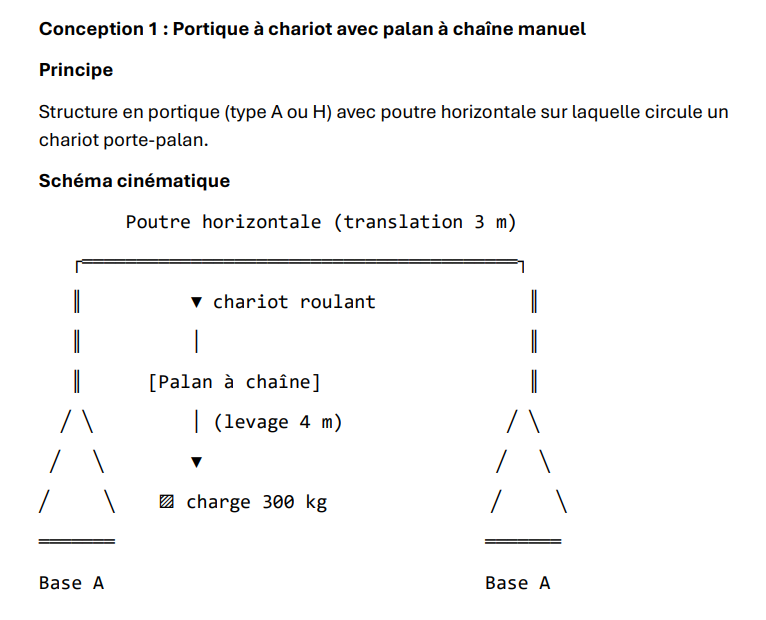
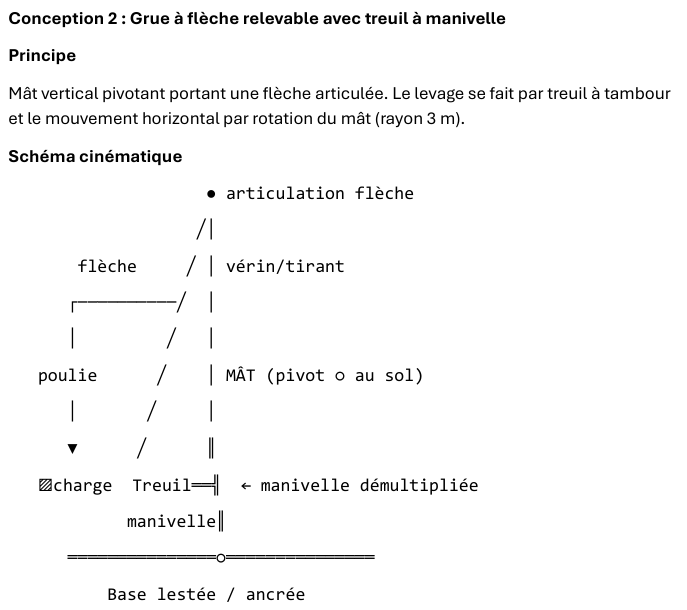
Fusion avec le dépôt GitHub 1

diff --git a/index.html b/index.html
@@ -22,6 +22,7 @@
     <a href="#maquette3d">3D</a>
     <a href="#calcul">Calcul</a>
     <a href="#suite">Suite</a>
+    <a href="#historique">Historique</a>
   </nav>
 </header>
 
@@ -34,10 +35,10 @@
     <div class="stats">
       <div><b>300 kg</b><span>charge</span></div>
       <div><b>4 m → 40 cm</b><span>levage</span></div>
-      <div><b>3 m → 30 cm</b><span>translation</span></div>
+      <div><b>3 m → 30 cm</b><span>rayon de rotation</span></div>
     </div>
   </div>
-  <img src="images/schema.png" alt="Schéma cinématique du portique à chariot avec palan à chaîne">
+  <img src="images/schema-cinematique-grue.png" alt="Schéma cinématique de la grue à flèche relevable avec treuil à manivelle">
 </section>
 
 <section id="projet">
@@ -131,21 +132,26 @@
 <section id="conceptions">
   <h2>Les trois conceptions</h2>
   <div class="tabs" role="tablist">
-    <button role="tab" aria-selected="true" data-tab="c1">1. Portique à chariot</button>
-    <button role="tab" aria-selected="false" data-tab="c2">2. Grue pivotante</button>
+    <button role="tab" aria-selected="false" data-tab="c1">1. Portique à chariot</button>
+    <button role="tab" aria-selected="true" data-tab="c2">2. Grue à flèche relevable ✓ retenue</button>
     <button role="tab" aria-selected="false" data-tab="c3">3. Chèvre à parallélogramme</button>
   </div>
-  <div class="panel" id="c1">
+  <div class="panel" id="c1" hidden>
     <p><strong>Principe :</strong> structure en portique (type A ou H) avec une poutre horizontale sur laquelle circule un chariot porte-palan. Les deux mouvements, vertical et horizontal, sont clairement séparés.</p>
-    <p><strong>Avec notre matériel :</strong> le carton fait les montants et la poutre, les plaques renforcent les zones sous charge, les pics et le fil de fer servent d'axes. Sans palan à chaîne, on réalise un treuil manuel démultiplié : manivelle, engrenages, tambour, ficelle, poulies.</p>
+    <p><strong>Avec notre matériel :</strong> le carton fait les montants et la poutre, les plaques renforcent les zones sous charge, les pics et le fil de fer servent d'axes. Sans palan à chaîne, on réalise un treuil manuel démultiplié.</p>
+    <div class="grid two">
+      <figure class="mini"><img src="images/schema.png" alt="Schéma cinématique du portique à chariot"><figcaption>Schéma de la conception 2.</figcaption></figure>
+      <figure class="mini"><img src="images/dimensionnement.png" alt="Dimensionnement du portique"><figcaption>Dimensionnement de la conception 2.</figcaption></figure>
+    </div>
   </div>
-  <div class="panel" id="c2" hidden>
-    <p><strong>Principe :</strong> un mât vertical pivotant porte une flèche relevable. Le levage se fait au treuil, la translation par rotation du mât.</p>
-    <p><strong>Limite :</strong> une charge éloignée du mât crée un fort moment de renversement. Il faut un lestage ou un ancrage, ce qui nuit à la démontabilité. Le pivot rigide et la base stable en carton sont aussi plus délicats.</p>
+  <div class="panel" id="c2">
+    <p><strong>Principe :</strong> un mât vertical pivotant porte une flèche articulée. Le levage se fait par un treuil à tambour avec manivelle démultipliée, et le mouvement horizontal par rotation du mât (rayon de 3 m).</p>
+    <p><strong>Limite :</strong> une charge éloignée du mât crée un fort moment de renversement. Il faut un lestage ou un ancrage de la base, ce qui est à concilier avec la démontabilité. Le pivot rigide et la base stable en carton sont aussi plus délicats à réaliser.</p>
+    <figure class="mini"><img src="images/schema-cinematique-grue.png" alt="Schéma cinématique de la grue à flèche relevable"><figcaption>Schéma cinématique de la conception 2.</figcaption></figure>
   </div>
   <div class="panel" id="c3" hidden>
     <p><strong>Principe :</strong> un trépied, un bras déformable en parallélogramme et un système de mouflage. La solution est compacte, légère et stable.</p>
-    <p><strong>Limite :</strong> il faut plusieurs liaisons pivot bien alignées. En carton, avec des axes en pics ou en fil de fer, les jeux, frottements et déformations gênent le fonctionnement, et le déplacement horizontal précis est difficile à régler.</p>
+    <p><strong>Limite :</strong> il faut plusieurs liaisons pivot bien alignées. En carton, avec des axes en pics ou en fil de fer, les jeux, frottements et déformations gênent le fonctionnement, et le réglage est difficile.</p>
   </div>
 </section>
 
@@ -153,7 +159,7 @@
   <h2>Comparatif</h2>
   <div class="table-wrap">
     <table class="cmp">
-      <thead><tr><th>Critère</th><th class="win">Portique + chariot</th><th>Grue pivotante</th><th>Trépied / parallélogramme</th></tr></thead>
+      <thead><tr><th>Critère</th><th>Portique + chariot</th><th class="win">Grue pivotante</th><th>Trépied / parallélogramme</th></tr></thead>
       <tbody>
         <tr><td>Compatibilité avec le carton</td><td>Très bonne</td><td>Moyenne</td><td>Moyenne</td></tr>
         <tr><td>Utilisation des poulies</td><td>Très bonne</td><td>Très bonne</td><td>Très bonne</td></tr>
@@ -168,39 +174,44 @@
       </tbody>
     </table>
   </div>
+  <p class="note">Ce tableau reprend l'analyse du document d'étude initial. Le groupe a retenu la grue à flèche relevable ; ses points faibles (stabilité, lestage) sont traités dans la section suivante.</p>
 </section>
 
 <section id="choix">
-  <h2>Solution retenue : le portique à chariot</h2>
+  <h2>Solution retenue : la grue à flèche relevable</h2>
+  <!-- À compléter par le groupe : justification détaillée du changement de choix (portique -> grue). -->
   <div class="grid two">
     <div>
-      <p>Nous avons comparé les trois solutions selon les contraintes du cahier des charges : lever 300 kg jusqu'à 4 m, les déplacer sur 3 m, utiliser uniquement l'énergie humaine, permettre l'usage par une seule personne, et obtenir un système simple, stable, démontable et transportable.</p>
-      <p>Nous avons retenu le <strong>portique à chariot mobile avec treuil manuel et système de poulies</strong>, simple à fabriquer avec le carton, les poulies, les engrenages, la ficelle et les pics à brochette.</p>
+      <p>Nous avons retenu la <strong>grue à flèche relevable avec treuil à manivelle</strong> : un mât vertical pivotant porte une flèche articulée.</p>
       <ul>
-        <li>Le <strong>chariot</strong> assure la translation de 3 m, soit 30 cm sur la maquette.</li>
-        <li>Le <strong>treuil démultiplié</strong> avec le palan assure le levage de 4 m, soit 40 cm sur la maquette.</li>
-        <li>Stable sans contrepoids important.</li>
-        <li>Engrenages et poulies réduisent l'effort de l'opérateur.</li>
+        <li>Le <strong>levage</strong> (4 m, soit 40 cm sur la maquette) est assuré par un treuil à tambour avec manivelle démultipliée.</li>
+        <li>Le <strong>mouvement horizontal</strong> se fait par rotation du mât, avec un rayon de 3 m (30 cm sur la maquette).</li>
+        <li>La flèche est maintenue par un vérin ou un tirant, et la base est lestée ou ancrée.</li>
+        <li>Solution intéressante du point de vue cinématique, qui exploite les engrenages, poulies, ficelle et axes fournis.</li>
       </ul>
-      <p>C'est le meilleur compromis entre simplicité, stabilité, efficacité, ergonomie et facilité de réalisation.</p>
     </div>
-    <figure>
-      <img src="images/dimensionnement.png" alt="Dimensionnement clé : palan, chariot et structure">
-      <figcaption>Dimensionnement de la conception initiale (palan à chaîne manuel).</figcaption>
-    </figure>
+    <div class="panel">
+      <h3 style="margin-top:0">Points de vigilance</h3>
+      <ul>
+        <li><strong>Moment de renversement :</strong> 300 kg à 3 m du mât donnent environ 300 × 9,81 × 3 ≈ 8 800 N·m (charge seule, hors poids propre).</li>
+        <li><strong>Base :</strong> lestage ou ancrage à concilier avec la démontabilité et la transportabilité.</li>
+        <li><strong>Maquette :</strong> pivot rigide et base stable en carton, plus délicats à réaliser qu'un portique.</li>
+      </ul>
+    </div>
   </div>
   <h3>Chaîne cinématique de la maquette</h3>
   <ol class="chain">
-    <li>Manivelle</li><li>Train d'engrenages</li><li>Tambour</li><li>Ficelle</li><li>Poulie(s)</li><li>Charge</li>
+    <li>Manivelle</li><li>Train d'engrenages</li><li>Tambour</li><li>Ficelle</li><li>Poulie en bout de flèche</li><li>Charge</li>
   </ol>
+  <p class="note">Le déplacement horizontal est obtenu séparément, par la rotation du mât.</p>
 </section>
 
 <section id="maquette3d">
   <h2>Maquette 3D interactive</h2>
-  <p>Fais glisser pour tourner autour du portique. Les curseurs commandent le chariot (3 m, soit 30 cm sur la maquette) et le levage (4 m, soit 40 cm).</p>
-  <div id="crane3d" aria-label="Portique 3D interactif"></div>
+  <p>Fais glisser pour tourner autour de la grue. Les curseurs commandent la rotation du mât (rayon de 3 m, soit 30 cm d'arc sur la maquette) et le levage (4 m, soit 40 cm).</p>
+  <div id="crane3d" aria-label="Grue à flèche relevable 3D interactive"></div>
   <div class="ctrl">
-    <label>Chariot : <output id="oT">0 cm</output><input id="sT" type="range" min="0" max="1" step="0.001" value="0"></label>
+    <label>Rotation du mât : <output id="oT">0°</output><input id="sT" type="range" min="0" max="1" step="0.001" value="0"></label>
     <label>Levage : <output id="oL">0 cm</output><input id="sL" type="range" min="0" max="1" step="0.001" value="0"></label>
     <button id="demo" type="button">Lancer la démo</button>
   </div>
@@ -208,7 +219,7 @@
 
 <section id="calcul" class="alt">
   <h2>Calcul d'effort</h2>
-  <p>Effort = masse × 9,81 ÷ rapport de réduction. Avec un palan 1/60 et 300 kg, on obtient environ 49 N (5 kg). Modifie les valeurs pour tester.</p>
+  <p>Effort = masse × 9,81 ÷ rapport de réduction. À titre d'exemple, un rapport de 1/60 avec 300 kg donne environ 49 N (5 kg). Modifie les valeurs pour tester.</p>
   <form class="calc" onsubmit="return false">
     <label>Masse (kg)<input id="mass" type="number" value="300" min="0" step="any"></label>
     <label>Rapport de réduction (1/N)<input id="ratio" type="number" value="60" min="1" step="any"></label>
@@ -217,13 +228,36 @@
   <p class="note">Pour la maquette, le rapport réel reste à calculer : il faut relever les dents des engrenages et le diamètre du tambour. Le coton résiste à 1 kg et le jute à 2 kg, ce qui limite la charge d'essai.</p>
 </section>
 
+<section id="historique" class="alt">
+  <h2>Historique des actions</h2>
+  <p>Ce qui a été fait jusqu'ici, dans l'ordre.</p>
+  <ol class="timeline">
+    <li><b>Reformulation du projet</b><span>Contexte, mots-clés, contraintes, problématique, objectifs, hypothèses, délai et livrables remis au propre.</span></li>
+    <li><b>Mise en forme du cahier des charges</b><span>Plan d'action global et plan d'action de la boucle 1 (Conception) structurés en tableaux.</span></li>
+    <li><b>Étude du matériel disponible</b><span>Ficelles, carton, poulies, engrenages, plaques, boulons, balance : ce qui sert à la maquette 1:10.</span></li>
+    <li><b>Analyse des trois conceptions</b><span>Portique à chariot, grue pivotante et chèvre à parallélogramme, avec leurs forces et leurs limites.</span></li>
+    <li><b>Comparaison des solutions</b><span>Tableau comparatif sur dix critères : carton, poulies, engrenages, fabrication, stabilité, translation, levage, réglage, jeu, matériel.</span></li>
+    <li><b>Premier choix : portique à chariot</b><span>Retenu avec treuil manuel démultiplié et système de poulies, justification rédigée.</span></li>
+    <li><b>Contrainte ajoutée</b><span>Utilisation possible par une seule personne.</span></li>
+    <li><b>Premier dimensionnement</b><span>Palan 1/60 : effort d'environ 49 N (5 kg) pour 300 kg. Rapport réel de la maquette à calculer.</span></li>
+    <li><b>Création du site web</b><span>Site responsive en HTML, CSS et JavaScript avec les images du schéma et du dimensionnement.</span></li>
+    <li><b>Maquette 3D et calculateur</b><span>Portique 3D interactif (chariot, levage, démo animée) et calculateur d'effort.</span></li>
+    <li><b>Identité du groupe et README</b><span>Nom La Brigada Nueve ajouté au site, README du dépôt rédigé.</span></li>
+    <li><b>Dépôt GitHub créé</b><span>Dépôt brigada-nueve-grue pour l'hébergement du site.</span></li>
+    <li><b>Vérification du document choix_engin.pdf</b><span>Même analyse des trois conceptions que la version précédente.</span></li>
+    <li><b>Changement de conception</b><span>La grue à flèche relevable avec treuil à manivelle remplace le portique à chariot.</span></li>
+    <li><b>Mise à jour du site</b><span>Textes, schéma, comparatif, étapes suivantes et maquette 3D adaptés à la grue à flèche relevable.</span></li>
+  </ol>
+</section>
+
 <section id="suite">
   <h2>Suite du projet</h2>
   <ol class="steps">
-    <li>Dimensionner le portique</li>
-    <li>Définir précisément le chariot</li>
+    <li>Dimensionner le mât et la flèche</li>
+    <li>Étudier la stabilité : moment de renversement, lestage ou ancrage de la base</li>
     <li>Déterminer le rapport de réduction réalisable avec les engrenages fournis</li>
-    <li>Concevoir le treuil et les poulies</li>
+    <li>Concevoir le treuil, la manivelle et les poulies</li>
+    <li>Réaliser un pivot rigide pour le mât</li>
     <li>Réaliser le schéma cinématique et les plans de la maquette à l'échelle 1:10</li>
   </ol>
 </section>

diff --git a/style.css b/style.css
@@ -48,7 +48,7 @@ table{border-collapse:collapse;width:100%;min-width:520px}
 th,td{padding:.6rem .9rem;text-align:left;border-bottom:1px solid var(--line)}
 th{background:var(--blue);color:#fff;font-weight:600}
 .cmp th.win{background:var(--card);color:var(--ink)}
-.cmp td:nth-child(2){background:#fbf3e6;font-weight:600}
+.cmp td:nth-child(3){background:#fbf3e6;font-weight:600}
 
 .tabs{display:flex;flex-wrap:wrap;gap:.5rem;margin-bottom:1rem}
 .tabs button{font:inherit;font-weight:600;padding:.6rem 1rem;border:2px solid var(--blue);background:#fff;color:var(--blue);cursor:pointer}
@@ -100,3 +100,14 @@ footer{background:var(--blue);color:#fff;text-align:center;padding:1.5rem;font-f
 .ctrl button{font:600 1rem "Archivo",sans-serif;padding:.7rem 1.2rem;background:var(--blue);color:#fff;border:0;cursor:pointer}
 .ctrl button:hover{background:var(--card);color:var(--ink)}
 @media (prefers-reduced-motion:reduce){.hero-text,.hero img{animation:none}}
+
+/* Historique */
+.timeline{list-style:none;padding:0 0 0 1.6rem;border-left:3px solid var(--blue);margin-top:1.5rem}
+.timeline li{position:relative;background:#fff;padding:.7rem 1rem;margin-bottom:.8rem;border:1px solid var(--line)}
+.timeline li::before{content:"✓";position:absolute;left:-2.55rem;top:.6rem;width:1.7rem;height:1.7rem;border-radius:50%;
+  background:var(--card);color:var(--ink);font:800 .9rem "Archivo",sans-serif;display:grid;place-items:center;border:3px solid var(--alt)}
+.timeline b{display:block;font-family:"Archivo",sans-serif;color:var(--blue)}
+.timeline span{font-size:.95rem;color:var(--muted)}
+
+.mini{max-width:420px}
+.panel figure{margin-top:1rem}

diff --git a/README.md b/README.md
@@ -1,6 +1,6 @@
 # La Brigada Nueve : Grue manuelle (maquette 1:10)
 
-Site de présentation de notre projet de la **semaine d'intégration** : concevoir une grue capable de lever **300 kg** sur **4 m** et de les déplacer sur **3 m**, uniquement à la force humaine, validée par une maquette à l'échelle **1:10** (40 cm de levage, 30 cm de translation).
+Site de présentation de notre projet de la **semaine d'intégration** : concevoir une grue capable de lever **300 kg** sur **4 m** et de les déplacer sur un rayon de **3 m**, uniquement à la force humaine, validée par une maquette à l'échelle **1:10** (40 cm de levage, 30 cm de déplacement horizontal).
 
 **Site en ligne :** https://willy-de-paris.github.io/brigada-nueve-grue/
 
@@ -8,20 +8,20 @@ Site de présentation de notre projet de la **semaine d'intégration** : concevo
 
 - Contexte, problématique, contraintes, objectifs, livrables et plan d'action
 - Matériel disponible pour la maquette
-- Analyse des trois conceptions : portique à chariot, grue pivotante, chèvre à parallélogramme
+- Analyse des trois conceptions : portique à chariot, grue à flèche relevable, chèvre à parallélogramme
 - Tableau comparatif
-- Solution retenue : **portique à chariot** avec treuil manuel et poulies
-- Maquette 3D interactive (rotation, chariot, levage, démo animée)
+- Solution retenue : **grue à flèche relevable avec treuil à manivelle**
+- Maquette 3D interactive (rotation du mât, levage, démo animée)
 - Calculateur d'effort
-- Suite du projet
+- Suite du projet et historique des actions
 
 ## Solution retenue
 
-Chaîne cinématique : manivelle → train d'engrenages → tambour → ficelle → poulie(s) → charge.
+Un mât vertical pivotant porte une flèche articulée, maintenue par un vérin ou un tirant. Le levage se fait par un treuil à tambour avec manivelle démultipliée, et le mouvement horizontal par rotation du mât (rayon 3 m). La base est lestée ou ancrée.
 
-Le chariot assure la translation horizontale, le treuil démultiplié assure le levage. La structure est stable sans contrepoids important, démontable et utilisable par une seule personne.
+Chaîne cinématique : manivelle → train d'engrenages → tambour → ficelle → poulie en bout de flèche → charge.
 
-Exemple de dimensionnement : avec un rapport de réduction de 1/60, l'effort pour 300 kg est d'environ 300 × 9,81 / 60 ≈ 49 N (5 kg).
+Point de vigilance : le moment de renversement, environ 300 × 9,81 × 3 ≈ 8 800 N·m pour la charge seule.
 
 ## Structure du dépôt
 
@@ -30,7 +30,7 @@ index.html        page principale
 style.css         mise en forme (responsive)
 script.js         menu mobile, onglets, calculateur
 crane3d.js        maquette 3D (Three.js)
-images/           schéma cinématique et dimensionnement
+images/           schémas cinématiques et dimensionnement
 ```
 
 ## Technologies
@@ -39,7 +39,7 @@ HTML, CSS et JavaScript. La maquette 3D utilise [Three.js](https://threejs.org/)
 
 ## Lancer le site en local
 
-Ouvre simplement `index.html` dans un navigateur, ou lance un petit serveur :
+Ouvre `index.html` dans un navigateur, ou lance un petit serveur :
 
 ```bash
 python3 -m http.server 8000
